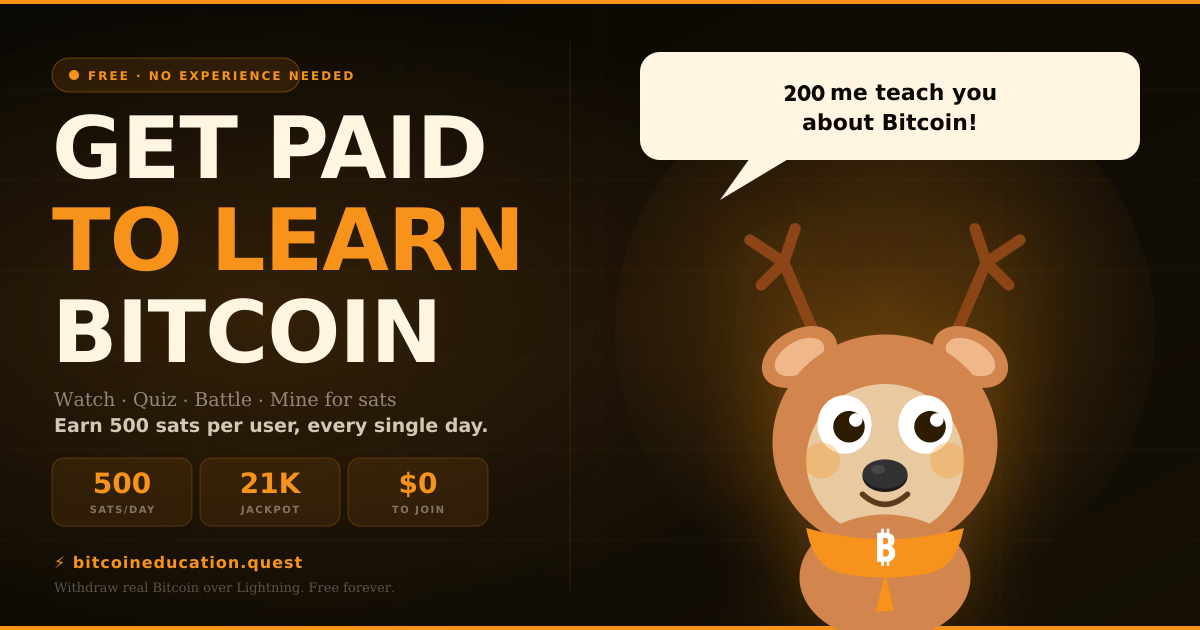
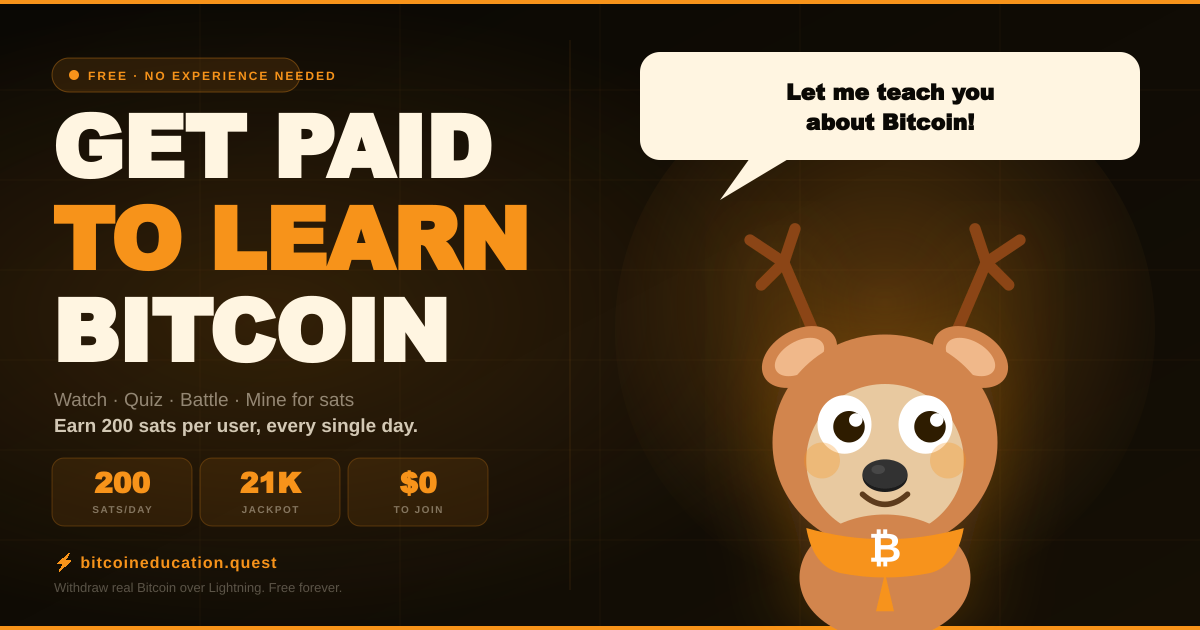
Fix the share card so Nacho says Let me teach you about Bitcoin.
The daily earn line and the sats stat both show 200, and the preview URL cache-buster is v=20261024b.

diff --git a/404.html b/404.html
@@ -91,8 +91,8 @@
     <meta property="og:site_name" content="Bitcoin Quest">
     <meta property="og:title" content="Bitcoin Quest">
     <meta property="og:description" content="Learn Bitcoin and get paid for it. Earn sats every day — watch videos, take quizzes, battle friends, mine for a 21,000 sat jackpot. Withdraw instantly over Lightning. Free forever.">
-    <meta property="og:image" content="https://cdn.jsdelivr.net/gh/NEEDcreations/Bitcoin_Education_Archive@gh-pages/og-image.png?v=20261022_200sats">
-    <meta property="og:image:secure_url" content="https://cdn.jsdelivr.net/gh/NEEDcreations/Bitcoin_Education_Archive@gh-pages/og-image.png?v=20261022_200sats">
+    <meta property="og:image" content="https://cdn.jsdelivr.net/gh/NEEDcreations/Bitcoin_Education_Archive@gh-pages/og-image.png?v=20261024b">
+    <meta property="og:image:secure_url" content="https://cdn.jsdelivr.net/gh/NEEDcreations/Bitcoin_Education_Archive@gh-pages/og-image.png?v=20261024b">
     <meta property="og:image:width" content="1200">
     <meta property="og:image:height" content="630">
     <meta property="og:image:type" content="image/png">
@@ -102,7 +102,7 @@
     <meta name="twitter:site" content="@NEEDcreations">
     <meta name="twitter:title" content="Bitcoin Quest">
     <meta name="twitter:description" content="Learn Bitcoin, earn real sats. Explore 145 topics, 24/7 streaming TV, quests, games, and a community — with real Bitcoin rewards built in.">
-    <meta name="twitter:image" content="https://cdn.jsdelivr.net/gh/NEEDcreations/Bitcoin_Education_Archive@gh-pages/og-image.png?v=20261022_200sats">
+    <meta name="twitter:image" content="https://cdn.jsdelivr.net/gh/NEEDcreations/Bitcoin_Education_Archive@gh-pages/og-image.png?v=20261024b">
     <meta name="twitter:image:alt" content="Bitcoin Quest — Learn Bitcoin and earn real sats">
 
     <title>Bitcoin Quest</title>

diff --git a/index.html b/index.html
@@ -91,8 +91,8 @@
     <meta property="og:site_name" content="Bitcoin Quest">
     <meta property="og:title" content="Bitcoin Quest">
     <meta property="og:description" content="Learn Bitcoin and get paid for it. Earn sats every day — watch videos, take quizzes, battle friends, mine for a 21,000 sat jackpot. Withdraw instantly over Lightning. Free forever.">
-    <meta property="og:image" content="https://cdn.jsdelivr.net/gh/NEEDcreations/Bitcoin_Education_Archive@gh-pages/og-image.png?v=20261022_200sats">
-    <meta property="og:image:secure_url" content="https://cdn.jsdelivr.net/gh/NEEDcreations/Bitcoin_Education_Archive@gh-pages/og-image.png?v=20261022_200sats">
+    <meta property="og:image" content="https://cdn.jsdelivr.net/gh/NEEDcreations/Bitcoin_Education_Archive@gh-pages/og-image.png?v=20261024b">
+    <meta property="og:image:secure_url" content="https://cdn.jsdelivr.net/gh/NEEDcreations/Bitcoin_Education_Archive@gh-pages/og-image.png?v=20261024b">
     <meta property="og:image:width" content="1200">
     <meta property="og:image:height" content="630">
     <meta property="og:image:type" content="image/png">
@@ -102,7 +102,7 @@
     <meta name="twitter:site" content="@NEEDcreations">
     <meta name="twitter:title" content="Bitcoin Quest">
     <meta name="twitter:description" content="Learn Bitcoin, earn real sats. Explore 145 topics, 24/7 streaming TV, quests, games, and a community — with real Bitcoin rewards built in.">
-    <meta name="twitter:image" content="https://cdn.jsdelivr.net/gh/NEEDcreations/Bitcoin_Education_Archive@gh-pages/og-image.png?v=20261022_200sats">
+    <meta name="twitter:image" content="https://cdn.jsdelivr.net/gh/NEEDcreations/Bitcoin_Education_Archive@gh-pages/og-image.png?v=20261024b">
     <meta name="twitter:image:alt" content="Bitcoin Quest — Learn Bitcoin and earn real sats">
 
     <title>Bitcoin Quest</title>

diff --git a/tests/test-tctv-watch.js b/tests/test-tctv-watch.js
@@ -774,7 +774,7 @@ test('playback with no server clock asks the server to start it and does not inv
 
 test('patch notes keep one Latest line for shared cipher rewards', () => {
     const notes = read('patch-notes.html');
-    const latest = 'Latest: Key and cipher help now says that when an accepted peer opens a matching cipher with a key you sent, you both get the same prize and you see a reveal of what you won.';
+    const latest = 'Latest: The share card says Let me teach you about Bitcoin, and the daily earn line and the sats stat both show 200.';
     const music = 'Timechain TV Music drops off-topic tracks, moves interviews and events onto the stations they belong on, and adds freedom and Bitcoin songs.';
     const repick = 'If your username was cleared, pick a new one from the prompt, and Satoshi\'s Favor shows your public name instead of Anonymous.';
     const flex = 'Flex XP syncs on tap again, and Say hi shows a green dot after you say hi.';
@@ -785,6 +785,8 @@ test('patch notes keep one Latest line for shared cipher rewards', () => {
     const taper = 'Daily XP is full through 500, half through 900, then a quarter until 1,000. Each tier rounds down. Extra XP is not saved.';
     assert.strictEqual((notes.match(/Latest:/g) || []).length, 1);
     assert.ok(notes.includes(latest));
+    assert.ok(notes.includes('Key and cipher help now says that when an accepted peer opens a matching cipher with a key you sent, you both get the same prize and you see a reveal of what you won.'));
+    assert.ok(!notes.includes('Latest: Key and cipher help'));
     assert.ok(notes.includes('When you send a key and a peer opens a matching cipher with it, you both win the same prize.'));
     assert.ok(!notes.includes('Latest: When you send a key'));
     assert.ok(notes.includes(music));

diff --git a/patch-notes.html b/patch-notes.html
@@ -58,7 +58,8 @@
       <div class="patch-badge">Latest</div>
     </div>
     <div class="patch-body">
-      <div class="item"><span class="tag feat">NEW</span><div class="item-text">Latest: Key and cipher help now says that when an accepted peer opens a matching cipher with a key you sent, you both get the same prize and you see a reveal of what you won.</div></div>
+      <div class="item"><span class="tag fix">FIX</span><div class="item-text">Latest: The share card says Let me teach you about Bitcoin, and the daily earn line and the sats stat both show 200.</div></div>
+      <div class="item"><span class="tag feat">NEW</span><div class="item-text">Key and cipher help now says that when an accepted peer opens a matching cipher with a key you sent, you both get the same prize and you see a reveal of what you won.</div></div>
       <div class="item"><span class="tag feat">NEW</span><div class="item-text">When you send a key and a peer opens a matching cipher with it, you both win the same prize.</div></div>
       <div class="item"><span class="tag fix">FIX</span><div class="item-text">Guests and Lightning-only accounts can link an email or Google from Sign-in methods, and sign-out warns them first.</div></div>
       <div class="item"><span class="tag feat">NEW</span><div class="item-text">Badges you already earned appear once, and one toast shows them.</div></div>

diff --git a/tests/busters.js b/tests/busters.js
@@ -236,7 +236,9 @@ test('homepage topics ring counts explored channels and says 145', () => {
     assert.ok(src.includes("var visited = window.getExploredCount ? window.getExploredCount() : safeJSON('btc_visited_channels', []).length;"));
     const notes = read('patch-notes.html');
     assert.strictEqual((notes.match(/Latest:/g) || []).length, 1);
-    assert.ok(notes.includes('Latest: Key and cipher help now says that when an accepted peer opens a matching cipher with a key you sent, you both get the same prize and you see a reveal of what you won.'));
+    assert.ok(notes.includes('Latest: The share card says Let me teach you about Bitcoin, and the daily earn line and the sats stat both show 200.'));
+    assert.ok(notes.includes('Key and cipher help now says that when an accepted peer opens a matching cipher with a key you sent, you both get the same prize and you see a reveal of what you won.'));
+    assert.ok(!notes.includes('Latest: Key and cipher help'));
     assert.ok(notes.includes('When you send a key and a peer opens a matching cipher with it, you both win the same prize.'));
     assert.ok(!notes.includes('Latest: When you send a key'));
     assert.ok(notes.includes('Guests and Lightning-only accounts can link an email or Google from Sign-in methods, and sign-out warns them first.'));

diff --git a/tests/test-topic-conversation-xp.js b/tests/test-topic-conversation-xp.js
@@ -202,7 +202,9 @@ test('rules, terms, and the client toast come from the server payload', () => {
     assert.ok(client.includes('A new conversation can earn XP.'));
     const notes = fs.readFileSync(path.join(root, 'patch-notes.html'), 'utf8');
     assert.strictEqual((notes.match(/Latest:/g) || []).length, 1);
-    assert.ok(notes.includes('Latest: Key and cipher help now says that when an accepted peer opens a matching cipher with a key you sent, you both get the same prize and you see a reveal of what you won.'));
+    assert.ok(notes.includes('Latest: The share card says Let me teach you about Bitcoin, and the daily earn line and the sats stat both show 200.'));
+    assert.ok(notes.includes('Key and cipher help now says that when an accepted peer opens a matching cipher with a key you sent, you both get the same prize and you see a reveal of what you won.'));
+    assert.ok(!notes.includes('Latest: Key and cipher help'));
     assert.ok(notes.includes('When you send a key and a peer opens a matching cipher with it, you both win the same prize.'));
     assert.ok(!notes.includes('Latest: When you send a key'));
     assert.ok(notes.includes('Guests and Lightning-only accounts can link an email or Google from Sign-in methods, and sign-out warns them first.'));

diff --git a/workers/seo-router/worker.js b/workers/seo-router/worker.js
@@ -236,7 +236,7 @@ function renderChannelPage(id, channel, origin) {
     const desc  = escapeHtml(channel.desc || 'Bitcoin education channel');
     const cat   = escapeHtml(channel.cat || '');
     const url   = origin + '/channels/' + id;
-    const ogImg = origin + '/og-image.png';
+    const ogImg = origin + '/og-image.png?v=20261024b';
 
     return `<!DOCTYPE html>
 <html lang="en">
@@ -292,7 +292,7 @@ function renderAppPage(page, origin) {
     const title = escapeHtml(info.title);
     const desc  = escapeHtml(info.desc);
     const url   = origin + '/app/' + page;
-    const ogImg = info.image ? (origin + info.image) : (origin + '/og-image.png');
+    const ogImg = info.image ? (origin + info.image) : (origin + '/og-image.png?v=20261024b');
 
     return `<!DOCTYPE html>
 <html lang="en">
